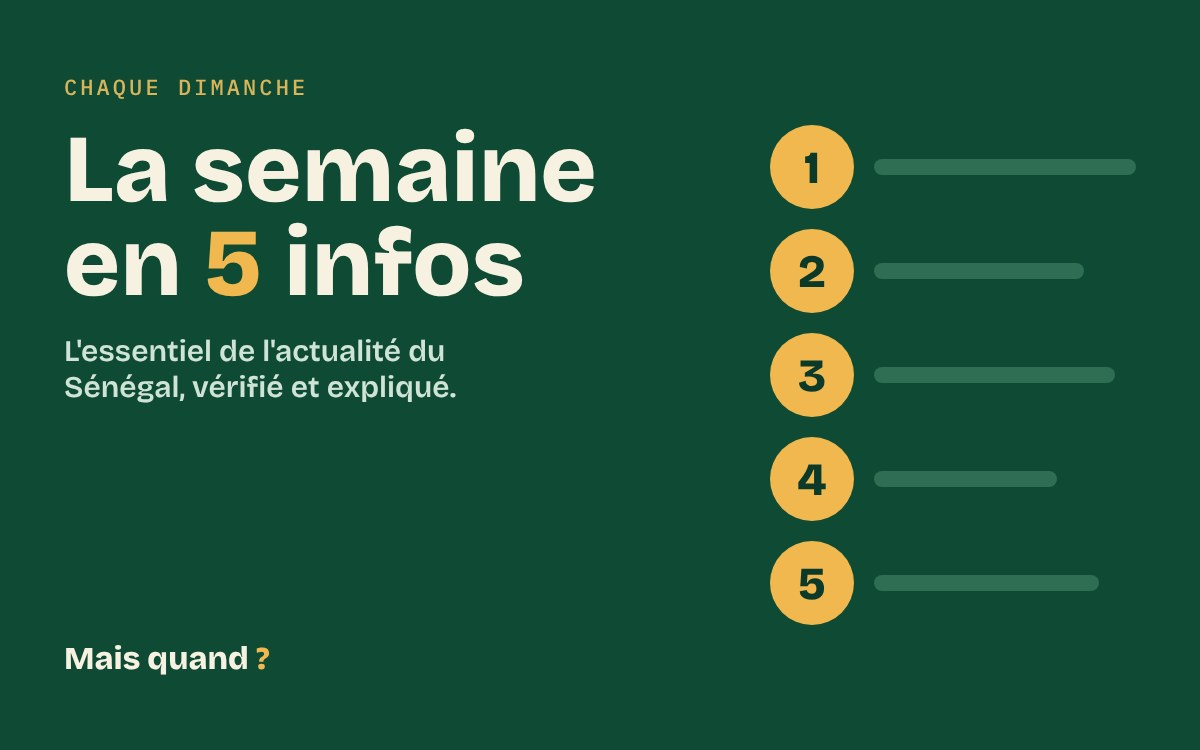
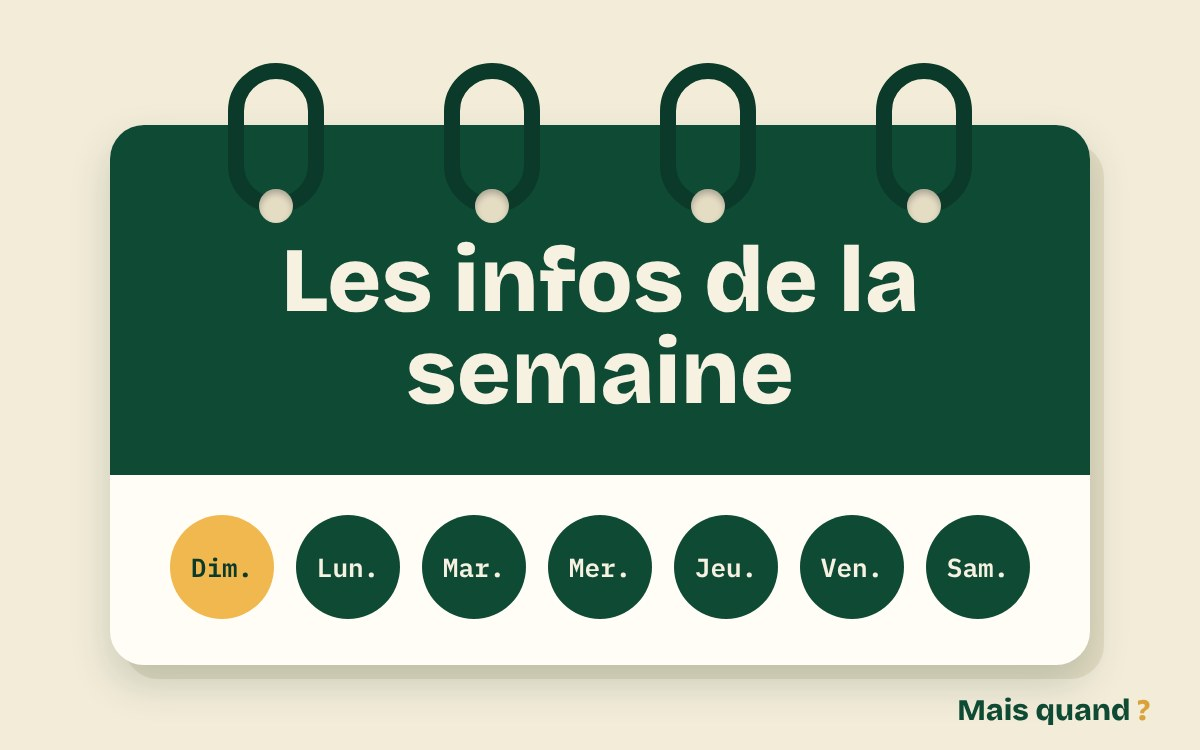
Visuel « Les infos de la semaine » en calendrier, aux couleurs du site
Claude-Session: https://claude.ai/code/session_011uKcnQFGUBZrCq8XKYaVDU

diff --git a/outils/visuel-5-infos.html b/outils/visuel-5-infos.html
@@ -1,18 +1,23 @@
 <!doctype html><html><head><meta charset="utf-8"><style>
-@import url('https://fonts.googleapis.com/css2?family=Bricolage+Grotesque:wght@600;800&family=IBM+Plex+Mono:wght@500&display=swap');
-body{margin:0;width:1200px;height:750px;background:#0f4a35;color:#f7f1e1;font-family:'Bricolage Grotesque',system-ui,sans-serif;display:grid;grid-template-columns:1fr 430px;overflow:hidden}
-.g{padding:72px 64px;display:grid;align-content:space-between}
-.k{font-family:'IBM Plex Mono',monospace;font-size:22px;letter-spacing:.14em;text-transform:uppercase;color:#d9b45a}
-h1{font-size:96px;line-height:.98;margin:22px 0 0;font-weight:800}
-h1 em{font-style:normal;color:#f0b84f}
-p{font-size:30px;font-weight:600;color:#cfe3d6;margin:22px 0 0;max-width:15em}
-.l{font-size:32px;font-weight:800}.l em{font-style:normal;color:#f0b84f}
-ol{list-style:none;margin:0;padding:64px 64px 64px 0;display:grid;gap:20px;align-content:center;counter-reset:n}
-li{counter-increment:n;display:grid;grid-template-columns:84px 1fr;gap:20px;align-items:center}
-li::before{content:counter(n);width:84px;height:84px;border-radius:50%;background:#f0b84f;color:#0b3a2a;display:grid;place-items:center;font-size:46px;font-weight:800}
-li span{height:16px;border-radius:8px;background:#2f6e52}
-li:nth-child(2) span{width:80%}li:nth-child(3) span{width:92%}li:nth-child(4) span{width:70%}li:nth-child(5) span{width:86%}
+@import url('https://fonts.googleapis.com/css2?family=Bricolage+Grotesque:wght@600;800&family=IBM+Plex+Mono:wght@500;600&display=swap');
+body{margin:0;width:1200px;height:750px;background:#f3ecd9;font-family:'Bricolage Grotesque',system-ui,sans-serif;display:grid;place-items:center;overflow:hidden;position:relative}
+.cal{position:relative;width:980px;margin-top:40px}
+.back{position:absolute;inset:18px -14px -14px 14px;background:#e4dcc3;border-radius:34px}
+.page{position:relative;background:#fffdf6;border-radius:34px;box-shadow:0 18px 40px rgba(11,58,42,.18);overflow:hidden}
+.top{background:#0f4a35;padding:110px 60px 56px;text-align:center}
+.top h1{margin:0;color:#f7f1e1;font-size:92px;font-weight:800;line-height:1}
+.top h1 em{font-style:normal;color:#f0b84f}
+.days{display:flex;justify-content:space-between;padding:40px 60px 46px}
+.d{width:104px;height:104px;border-radius:50%;background:#0f4a35;color:#f7f1e1;display:grid;place-items:center;font-family:'IBM Plex Mono',monospace;font-weight:600;font-size:26px}
+.d.on{background:#f0b84f;color:#0b3a2a}
+.rings{position:absolute;top:-62px;left:0;right:0;display:flex;justify-content:center;gap:120px;z-index:2}
+.ring{width:96px;height:150px;border:16px solid #0b3a2a;border-radius:48px;box-sizing:border-box;position:relative}
+.ring::after{content:"";position:absolute;bottom:-26px;left:50%;transform:translateX(-50%);width:34px;height:34px;border-radius:50%;background:#e4dcc3;box-shadow:inset 0 4px 6px rgba(0,0,0,.25)}
+.logo{position:absolute;right:50px;bottom:22px;font-size:30px;font-weight:800;color:#0f4a35}.logo em{font-style:normal;color:#d9a23a}
 </style></head><body>
-<div class="g"><div><div class="k">Chaque dimanche</div><h1>La semaine<br>en <em>5</em> infos</h1><p>L'essentiel de l'actualité du Sénégal, vérifié et expliqué.</p></div><div class="l">Mais quand <em>?</em></div></div>
-<ol><li><span></span></li><li><span></span></li><li><span></span></li><li><span></span></li><li><span></span></li></ol>
+<div class="cal"><div class="back"></div>
+<div class="rings"><div class="ring"></div><div class="ring"></div><div class="ring"></div><div class="ring"></div></div>
+<div class="page"><div class="top"><h1>Les infos de la semaine</h1></div>
+<div class="days"><div class="d on">Dim.</div><div class="d">Lun.</div><div class="d">Mar.</div><div class="d">Mer.</div><div class="d">Jeu.</div><div class="d">Ven.</div><div class="d">Sam.</div></div></div></div>
+<div class="logo">Mais quand <em>?</em></div>
 </body></html>
